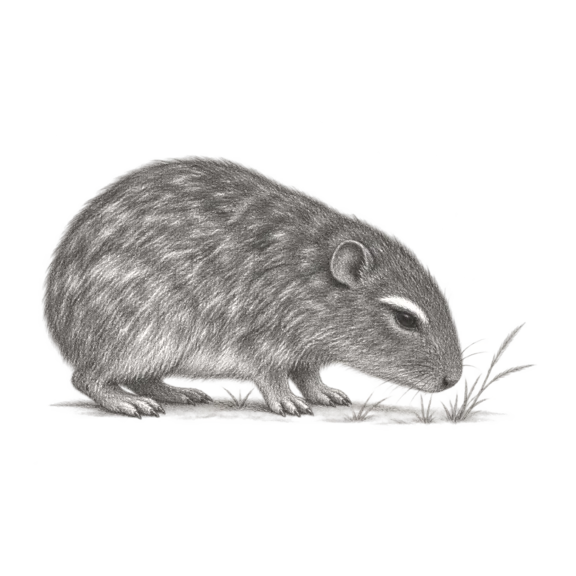
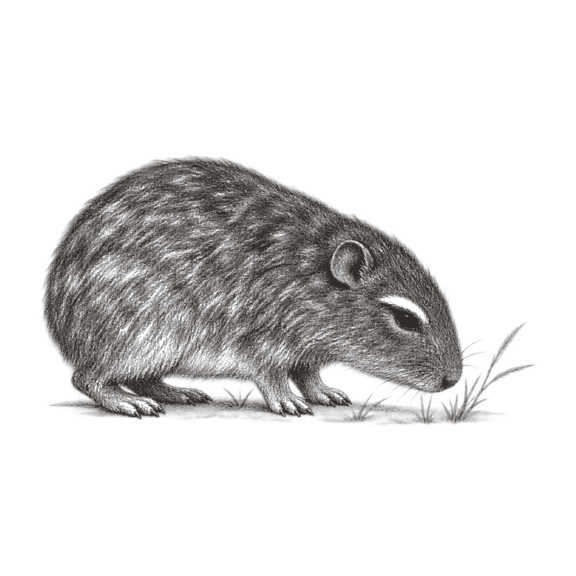
Acercar los avistamientos a las huellas y unificar la tinta del cuis

Changed region(s): [[0.0625, 0.2812, 0.8125, 0.75]]

diff --git a/PENDIENTES.md b/PENDIENTES.md
@@ -380,6 +380,11 @@ Esta lista reconstruye el estado informado del proyecto editable. La exportació
 - La subida suma una charla de Mara, un cruce del zorro, un carancho y una chapa numerada junto a la huella. El grupo se reúne abajo y el encargo se cierra al volver al puesto.
 - El regreso del filo tarda cinco minutos y medio en llegar a noche cerrada. Las lajas cierran el atajo entre la cuerda y la vaguada. El tronco del rodeo se retira después del Día 25.
 
+## Pasada de avistamientos y bocetos
+
+- Los siete bocetos de Flora y fauna tienen transparencia. También se pasaron a tinta los claros del cuis para que se vea el papel.
+- Hay un espinillo cerca de la salida y una cortadera y una laja con overo al costado de la bajada al cauce. Se ampliaron el área de apuntado y el tiempo disponible para dibujar fauna. La primera página del cuaderno indica dónde empezar a buscar.
+
 ## Todavía pendiente
 
 - **Arte.** Cotejar el acabado de las rocas con más fotos del cerro y seguir afinando los objetos de cerca, la vegetación y las lomadas de fondo en los sectores secundarios.
